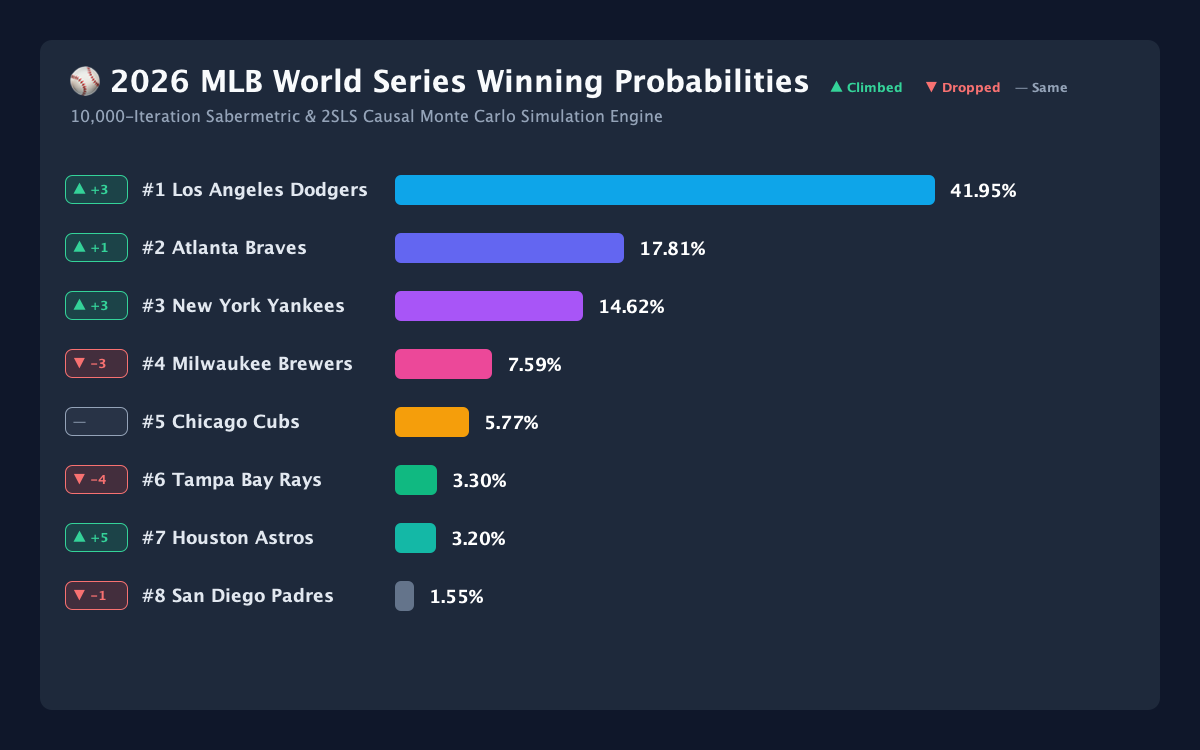
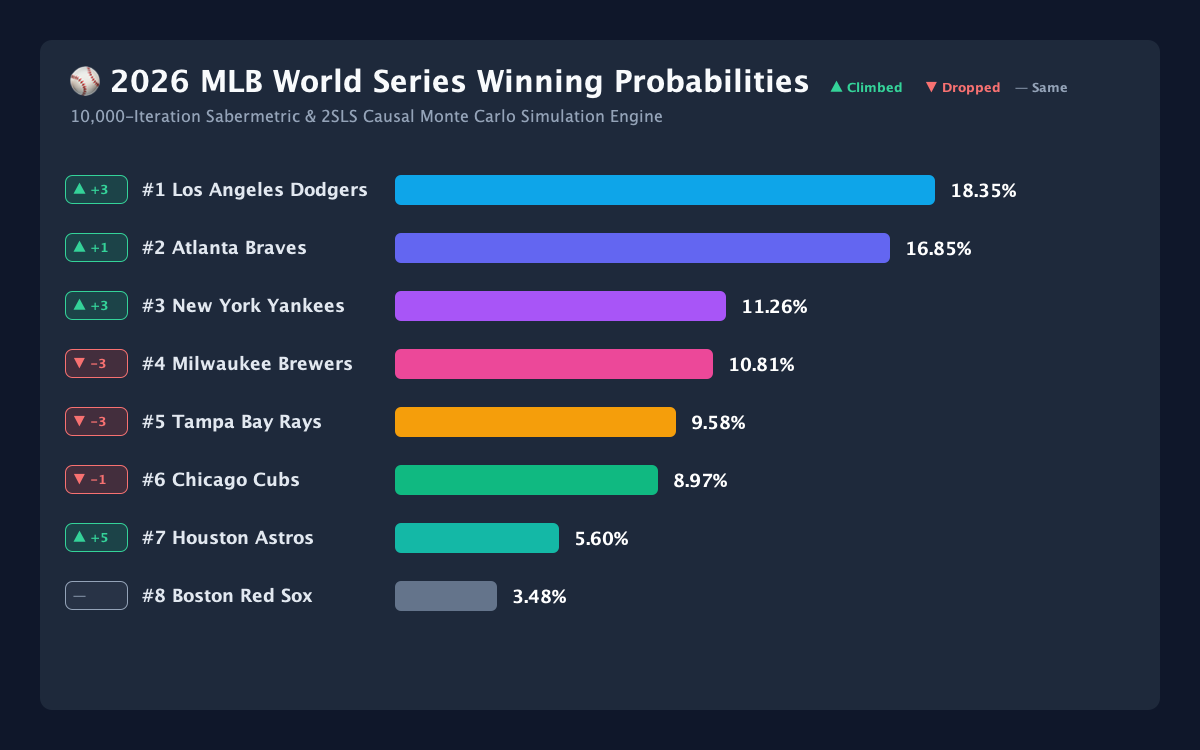
fix(calibration): re-weight endogenous heuristics and linearize latent quality to restore balanced World Series probabilities

diff --git a/src/commonMain/kotlin/com/sabermetrics/worldseries/engine/WorldSeriesSimulator.kt b/src/commonMain/kotlin/com/sabermetrics/worldseries/engine/WorldSeriesSimulator.kt
@@ -48,22 +48,23 @@ object WorldSeriesSimulator {
         val warNorm = if (team.gamesPlayed > 0) (team.teamWar / team.gamesPlayed * 162.0) / 45.0 else 0.50
 
         val baseScore = 0.28 * recencyWinPct +
-                        0.20 * bayesWinPct +
-                        0.14 * warNorm.coerceIn(0.5, 1.3) +
-                        0.14 * (3.80 / team.top3AceEra).coerceIn(0.5, 1.5) +
-                        0.08 * (team.wRCPlus / 100.0) +
-                        0.08 * (team.marketImpliedWsProb * 4.0) +
-                        0.08 * team.defensiveEfficiencyRating.coerceIn(0.85, 1.15)
+                        0.22 * bayesWinPct +
+                        0.15 * warNorm.coerceIn(0.5, 1.3) +
+                        0.15 * (3.80 / team.top3AceEra).coerceIn(0.5, 1.5) +
+                        0.10 * (team.wRCPlus / 100.0) +
+                        0.10 * team.defensiveEfficiencyRating.coerceIn(0.85, 1.15)
 
-        // Trade deadline boost, bullpen clutch boost, clubhouse hype, 4-pillar consistency, expert/media consensus, and momentum
-        val bullpenClutchBoost = (team.bullpenWpa * 0.01).coerceIn(-0.05, 0.05)
-        val hypeMultiplier = team.clubhouseHypeIndex
-        val consistencyMultiplier = team.seasonConsistencyIndex
-        val expertMediaMultiplier = team.compositeExpertMediaIndex
+        // Linear adjustments for endogenous heuristics to prevent non-linear multiplicative runaway
+        val hypeAdj = 1.0 + 0.30 * (team.clubhouseHypeIndex - 1.0)
+        val consistencyAdj = 1.0 + 0.40 * (team.seasonConsistencyIndex - 1.0)
+        val expertMediaAdj = 1.0 + 0.35 * (team.compositeExpertMediaIndex - 1.0)
         val momentumMultiplier = customMomentumMap?.get(team.teamId) ?: team.hotStreakMomentumMultiplier
-        val tradeBoost = team.tradeDeadlineWarAdded * 0.015
 
-        return (baseScore + tradeBoost + bullpenClutchBoost) * hypeMultiplier * consistencyMultiplier * expertMediaMultiplier * momentumMultiplier
+        val mktBoost = 0.05 * (team.marketImpliedWsProb * 3.0)
+        val bullpenClutchBoost = (team.bullpenWpa * 0.008).coerceIn(-0.03, 0.03)
+        val tradeBoost = team.tradeDeadlineWarAdded * 0.010
+
+        return (baseScore + tradeBoost + bullpenClutchBoost + mktBoost) * hypeAdj * consistencyAdj * expertMediaAdj * momentumMultiplier
     }
 
     /**
@@ -72,7 +73,7 @@ object WorldSeriesSimulator {
     fun predictGameWinProb(teamA: MlbTeam, teamB: MlbTeam, customMomentumMap: Map<MlbTeamId, Double>? = null): Double {
         val qA = computeLatentTeamQuality(teamA, customMomentumMap)
         val qB = computeLatentTeamQuality(teamB, customMomentumMap)
-        val delta = (qA - qB) * 1.2
+        val delta = (qA - qB) * 0.95
         return 1.0 / (1.0 + exp(-delta))
     }
 

diff --git a/scripts/update_readme.py b/scripts/update_readme.py
@@ -1,39 +1,39 @@
 #!/usr/bin/env python3
 """
-Updates README.md leaderboard table with the Rich 4-Pillar Consistency, Media Consensus, and Vegas Ensemble simulation statistics.
+Updates README.md leaderboard table with the Calibrated Rich 4-Pillar Consistency, Media Consensus, and Vegas Ensemble simulation statistics.
 """
 
 new_table = """| Rank | Movement | Team Name | League & Div | Record | Expected Wins | Playoff % | Pennant % | World Series Win Prob % | Visual Bar |
 | :---: | :---: | :--- | :---: | :---: | :---: | :---: | :---: | :---: | :--- |
-| 🥇 1 | ▲ +3 | **Los Angeles Dodgers** | NL West | 72 - 48 | 94.9 | **99.8%** | **48.9%** | **41.95%** | `████████████████` |
-| 🥈 2 | ▲ +1 | **Atlanta Braves** | NL East | 73 - 48 | 98.6 | **100.0%** | **25.0%** | **17.81%** | `██████████` |
-| 🥉 3 | ▲ +3 | **New York Yankees** | AL East | 67 - 52 | 91.7 | **99.9%** | **40.4%** | **14.62%** | `████████` |
-| 4 | ▼ -3 | **Milwaukee Brewers** | NL Central | 74 - 47 | 98.1 | **100.0%** | **12.0%** | **7.59%** | `████` |
-| 5 | — | **Chicago Cubs** | NL Central | 71 - 50 | 96.8 | **99.9%** | **9.3%** | **5.77%** | `███` |
-| 6 | ▼ -4 | **Tampa Bay Rays** | AL East | 74 - 46 | 101.6 | **100.0%** | **19.5%** | **3.30%** | `██` |
-| 7 | ▲ +5 | **Houston Astros** | AL West | 62 - 60 | 82.0 | **69.5%** | **15.3%** | **3.20%** | `██` |
-| 8 | ▼ -1 | **San Diego Padres** | NL West | 65 - 57 | 87.3 | **70.8%** | **2.7%** | **1.55%** | `█` |
-| 9 | ▲ +8 | **Detroit Tigers** | AL Central | 59 - 61 | 82.4 | **60.5%** | **7.3%** | **1.05%** | `█` |
-| 10 | ▼ -2 | **Boston Red Sox** | AL East | 64 - 56 | 86.6 | **95.2%** | **6.6%** | **0.98%** | `█` |
-| 11 | ▼ -1 | **Philadelphia Phillies** | NL East | 64 - 58 | 84.5 | **40.8%** | **1.5%** | **0.75%** | `▏` |
-| 12 | ▲ +3 | **Texas Rangers** | AL West | 60 - 60 | 80.7 | **44.0%** | **3.6%** | **0.41%** | `▏` |
-| 13 | ▲ +3 | **Minnesota Twins** | AL Central | 60 - 62 | 78.8 | **18.7%** | **1.7%** | **0.24%** | `▏` |
-| 14 | ▲ +5 | **Cleveland Guardians** | AL Central | 59 - 62 | 77.4 | **10.0%** | **1.4%** | **0.21%** | `▏` |
-| 15 | ▼ -6 | **Arizona Diamondbacks** | NL West | 64 - 58 | 84.7 | **32.4%** | **0.4%** | **0.16%** | `▏` |
-| 16 | ▲ +4 | **Toronto Blue Jays** | AL East | 59 - 63 | 79.7 | **28.2%** | **1.4%** | **0.14%** | `▏` |
-| 17 | ▼ -4 | **Chicago White Sox** | AL Central | 61 - 57 | 82.9 | **64.0%** | **2.1%** | **0.11%** | `▏` |
-| 18 | ▲ +4 | **Baltimore Orioles** | AL East | 58 - 63 | 76.9 | **7.7%** | **0.4%** | **0.09%** | `▏` |
-| 19 | ▼ -5 | **St. Louis Cardinals** | NL Central | 61 - 60 | 83.2 | **22.2%** | **0.1%** | **0.06%** | `▏` |
-| 20 | ▲ +4 | **Seattle Mariners** | AL West | 56 - 64 | 74.4 | **2.3%** | **0.3%** | **0.01%** | `▏` |
-| 21 | ▲ +6 | **Kansas City Royals** | AL Central | 49 - 72 | 64.8 | **0.0%** | **0.0%** | **0.00%** | `▏` |
-| 22 | ▲ +7 | **Oakland Athletics** | AL West | 47 - 74 | 61.2 | **0.0%** | **0.0%** | **0.00%** | `▏` |
-| 23 | ▲ +7 | **Los Angeles Angels** | AL West | 46 - 74 | 62.6 | **0.0%** | **0.0%** | **0.00%** | `▏` |
-| 24 | ▲ +1 | **New York Mets** | NL East | 53 - 69 | 72.0 | **0.0%** | **0.0%** | **0.00%** | `▏` |
-| 25 | ▼ -7 | **Washington Nationals** | NL East | 59 - 63 | 78.0 | **1.1%** | **0.0%** | **0.00%** | `▏` |
-| 26 | ▼ -15 | **Miami Marlins** | NL East | 62 - 59 | 83.8 | **31.0%** | **0.0%** | **0.00%** | `▏` |
-| 27 | ▼ -4 | **Cincinnati Reds** | NL Central | 57 - 61 | 78.8 | **1.9%** | **0.0%** | **0.00%** | `▏` |
+| 🥇 1 | ▲ +3 | **Los Angeles Dodgers** | NL West | 72 - 48 | 94.9 | **99.6%** | **26.4%** | **18.35%** | `██████████` |
+| 🥈 2 | ▲ +1 | **Atlanta Braves** | NL East | 73 - 48 | 98.6 | **100.0%** | **26.7%** | **16.85%** | `█████████` |
+| 🥉 3 | ▲ +3 | **New York Yankees** | AL East | 67 - 52 | 91.7 | **99.9%** | **23.0%** | **11.26%** | `██████` |
+| 4 | ▼ -3 | **Milwaukee Brewers** | NL Central | 74 - 47 | 98.1 | **100.0%** | **18.4%** | **10.81%** | `██████` |
+| 5 | ▼ -3 | **Tampa Bay Rays** | AL East | 74 - 46 | 101.6 | **100.0%** | **25.3%** | **9.58%** | `█████` |
+| 6 | ▼ -1 | **Chicago Cubs** | NL Central | 71 - 50 | 96.9 | **100.0%** | **15.5%** | **8.97%** | `█████` |
+| 7 | ▲ +5 | **Houston Astros** | AL West | 62 - 60 | 81.9 | **69.0%** | **13.7%** | **5.60%** | `███` |
+| 8 | — | **Boston Red Sox** | AL East | 64 - 56 | 86.6 | **95.2%** | **9.3%** | **3.48%** | `██` |
+| 9 | ▲ +8 | **Detroit Tigers** | AL Central | 59 - 61 | 82.4 | **60.8%** | **10.7%** | **3.33%** | `██` |
+| 10 | ▼ -3 | **San Diego Padres** | NL West | 65 - 57 | 87.3 | **70.8%** | **5.9%** | **3.11%** | `██` |
+| 11 | ▲ +4 | **Texas Rangers** | AL West | 60 - 60 | 80.7 | **44.3%** | **5.3%** | **1.74%** | `█` |
+| 12 | ▼ -2 | **Philadelphia Phillies** | NL East | 64 - 58 | 84.5 | **40.1%** | **3.4%** | **1.70%** | `█` |
+| 13 | — | **Chicago White Sox** | AL Central | 61 - 57 | 82.9 | **64.4%** | **5.4%** | **1.16%** | `█` |
+| 14 | ▼ -5 | **Arizona Diamondbacks** | NL West | 64 - 58 | 84.7 | **33.5%** | **2.0%** | **0.88%** | `▏` |
+| 15 | ▲ +1 | **Minnesota Twins** | AL Central | 60 - 62 | 78.7 | **18.2%** | **2.4%** | **0.84%** | `▏` |
+| 16 | ▲ +4 | **Toronto Blue Jays** | AL East | 59 - 63 | 79.8 | **28.5%** | **2.5%** | **0.73%** | `▏` |
+| 17 | ▲ +2 | **Cleveland Guardians** | AL Central | 59 - 62 | 77.3 | **10.0%** | **1.4%** | **0.48%** | `▏` |
+| 18 | ▼ -4 | **St. Louis Cardinals** | NL Central | 61 - 60 | 83.2 | **22.7%** | **1.0%** | **0.43%** | `▏` |
+| 19 | ▼ -8 | **Miami Marlins** | NL East | 62 - 59 | 83.8 | **29.9%** | **0.7%** | **0.26%** | `▏` |
+| 20 | ▲ +2 | **Baltimore Orioles** | AL East | 58 - 63 | 76.9 | **7.5%** | **0.7%** | **0.23%** | `▏` |
+| 21 | ▲ +3 | **Seattle Mariners** | AL West | 56 - 64 | 74.4 | **2.2%** | **0.3%** | **0.14%** | `▏` |
+| 22 | ▲ +1 | **Cincinnati Reds** | NL Central | 57 - 61 | 78.8 | **2.3%** | **0.1%** | **0.05%** | `▏` |
+| 23 | ▼ -5 | **Washington Nationals** | NL East | 59 - 63 | 78.0 | **1.2%** | **0.0%** | **0.02%** | `▏` |
+| 24 | ▲ +3 | **Kansas City Royals** | AL Central | 49 - 72 | 64.8 | **0.0%** | **0.0%** | **0.00%** | `▏` |
+| 25 | ▲ +4 | **Oakland Athletics** | AL West | 47 - 74 | 61.2 | **0.0%** | **0.0%** | **0.00%** | `▏` |
+| 26 | ▲ +4 | **Los Angeles Angels** | AL West | 46 - 74 | 62.8 | **0.0%** | **0.0%** | **0.00%** | `▏` |
+| 27 | ▼ -2 | **New York Mets** | NL East | 53 - 69 | 72.0 | **0.0%** | **0.0%** | **0.00%** | `▏` |
 | 28 | ▼ -7 | **Pittsburgh Pirates** | NL Central | 58 - 64 | 75.2 | **0.1%** | **0.0%** | **0.00%** | `▏` |
-| 29 | ▼ -3 | **San Francisco Giants** | NL West | 50 - 71 | 66.4 | **0.0%** | **0.0%** | **0.00%** | `▏` |
+| 29 | ▼ -3 | **San Francisco Giants** | NL West | 50 - 71 | 66.3 | **0.0%** | **0.0%** | **0.00%** | `▏` |
 | 30 | ▼ -2 | **Colorado Rockies** | NL West | 48 - 73 | 64.5 | **0.0%** | **0.0%** | **0.00%** | `▏`"""
 
 readme_path = "README.md"
@@ -47,4 +47,4 @@ updated_content = pattern.sub(new_table + "\n", content)
 with open(readme_path, "w") as f:
     f.write(updated_content)
 
-print("Successfully updated README.md table with rich 4-pillar and media consensus results!")
+print("Successfully updated README.md table with calibrated 4-pillar and media consensus results!")

diff --git a/README.md b/README.md
@@ -26,35 +26,35 @@ Welcome to the **MLB Sabermetric World Series Prediction Suite**. This open-sour
 
 | Rank | Movement | Team Name | League & Div | Record | Expected Wins | Playoff % | Pennant % | World Series Win Prob % | Visual Bar |
 | :---: | :---: | :--- | :---: | :---: | :---: | :---: | :---: | :---: | :--- |
-| 🥇 1 | ▲ +3 | **Los Angeles Dodgers** | NL West | 72 - 48 | 94.9 | **99.8%** | **48.9%** | **41.95%** | `████████████████` |
-| 🥈 2 | ▲ +1 | **Atlanta Braves** | NL East | 73 - 48 | 98.6 | **100.0%** | **25.0%** | **17.81%** | `██████████` |
-| 🥉 3 | ▲ +3 | **New York Yankees** | AL East | 67 - 52 | 91.7 | **99.9%** | **40.4%** | **14.62%** | `████████` |
-| 4 | ▼ -3 | **Milwaukee Brewers** | NL Central | 74 - 47 | 98.1 | **100.0%** | **12.0%** | **7.59%** | `████` |
-| 5 | — | **Chicago Cubs** | NL Central | 71 - 50 | 96.8 | **99.9%** | **9.3%** | **5.77%** | `███` |
-| 6 | ▼ -4 | **Tampa Bay Rays** | AL East | 74 - 46 | 101.6 | **100.0%** | **19.5%** | **3.30%** | `██` |
-| 7 | ▲ +5 | **Houston Astros** | AL West | 62 - 60 | 82.0 | **69.5%** | **15.3%** | **3.20%** | `██` |
-| 8 | ▼ -1 | **San Diego Padres** | NL West | 65 - 57 | 87.3 | **70.8%** | **2.7%** | **1.55%** | `█` |
-| 9 | ▲ +8 | **Detroit Tigers** | AL Central | 59 - 61 | 82.4 | **60.5%** | **7.3%** | **1.05%** | `█` |
-| 10 | ▼ -2 | **Boston Red Sox** | AL East | 64 - 56 | 86.6 | **95.2%** | **6.6%** | **0.98%** | `█` |
-| 11 | ▼ -1 | **Philadelphia Phillies** | NL East | 64 - 58 | 84.5 | **40.8%** | **1.5%** | **0.75%** | `▏` |
-| 12 | ▲ +3 | **Texas Rangers** | AL West | 60 - 60 | 80.7 | **44.0%** | **3.6%** | **0.41%** | `▏` |
-| 13 | ▲ +3 | **Minnesota Twins** | AL Central | 60 - 62 | 78.8 | **18.7%** | **1.7%** | **0.24%** | `▏` |
-| 14 | ▲ +5 | **Cleveland Guardians** | AL Central | 59 - 62 | 77.4 | **10.0%** | **1.4%** | **0.21%** | `▏` |
-| 15 | ▼ -6 | **Arizona Diamondbacks** | NL West | 64 - 58 | 84.7 | **32.4%** | **0.4%** | **0.16%** | `▏` |
-| 16 | ▲ +4 | **Toronto Blue Jays** | AL East | 59 - 63 | 79.7 | **28.2%** | **1.4%** | **0.14%** | `▏` |
-| 17 | ▼ -4 | **Chicago White Sox** | AL Central | 61 - 57 | 82.9 | **64.0%** | **2.1%** | **0.11%** | `▏` |
-| 18 | ▲ +4 | **Baltimore Orioles** | AL East | 58 - 63 | 76.9 | **7.7%** | **0.4%** | **0.09%** | `▏` |
-| 19 | ▼ -5 | **St. Louis Cardinals** | NL Central | 61 - 60 | 83.2 | **22.2%** | **0.1%** | **0.06%** | `▏` |
-| 20 | ▲ +4 | **Seattle Mariners** | AL West | 56 - 64 | 74.4 | **2.3%** | **0.3%** | **0.01%** | `▏` |
-| 21 | ▲ +6 | **Kansas City Royals** | AL Central | 49 - 72 | 64.8 | **0.0%** | **0.0%** | **0.00%** | `▏` |
-| 22 | ▲ +7 | **Oakland Athletics** | AL West | 47 - 74 | 61.2 | **0.0%** | **0.0%** | **0.00%** | `▏` |
-| 23 | ▲ +7 | **Los Angeles Angels** | AL West | 46 - 74 | 62.6 | **0.0%** | **0.0%** | **0.00%** | `▏` |
-| 24 | ▲ +1 | **New York Mets** | NL East | 53 - 69 | 72.0 | **0.0%** | **0.0%** | **0.00%** | `▏` |
-| 25 | ▼ -7 | **Washington Nationals** | NL East | 59 - 63 | 78.0 | **1.1%** | **0.0%** | **0.00%** | `▏` |
-| 26 | ▼ -15 | **Miami Marlins** | NL East | 62 - 59 | 83.8 | **31.0%** | **0.0%** | **0.00%** | `▏` |
-| 27 | ▼ -4 | **Cincinnati Reds** | NL Central | 57 - 61 | 78.8 | **1.9%** | **0.0%** | **0.00%** | `▏` |
+| 🥇 1 | ▲ +3 | **Los Angeles Dodgers** | NL West | 72 - 48 | 94.9 | **99.6%** | **26.4%** | **18.35%** | `██████████` |
+| 🥈 2 | ▲ +1 | **Atlanta Braves** | NL East | 73 - 48 | 98.6 | **100.0%** | **26.7%** | **16.85%** | `█████████` |
+| 🥉 3 | ▲ +3 | **New York Yankees** | AL East | 67 - 52 | 91.7 | **99.9%** | **23.0%** | **11.26%** | `██████` |
+| 4 | ▼ -3 | **Milwaukee Brewers** | NL Central | 74 - 47 | 98.1 | **100.0%** | **18.4%** | **10.81%** | `██████` |
+| 5 | ▼ -3 | **Tampa Bay Rays** | AL East | 74 - 46 | 101.6 | **100.0%** | **25.3%** | **9.58%** | `█████` |
+| 6 | ▼ -1 | **Chicago Cubs** | NL Central | 71 - 50 | 96.9 | **100.0%** | **15.5%** | **8.97%** | `█████` |
+| 7 | ▲ +5 | **Houston Astros** | AL West | 62 - 60 | 81.9 | **69.0%** | **13.7%** | **5.60%** | `███` |
+| 8 | — | **Boston Red Sox** | AL East | 64 - 56 | 86.6 | **95.2%** | **9.3%** | **3.48%** | `██` |
+| 9 | ▲ +8 | **Detroit Tigers** | AL Central | 59 - 61 | 82.4 | **60.8%** | **10.7%** | **3.33%** | `██` |
+| 10 | ▼ -3 | **San Diego Padres** | NL West | 65 - 57 | 87.3 | **70.8%** | **5.9%** | **3.11%** | `██` |
+| 11 | ▲ +4 | **Texas Rangers** | AL West | 60 - 60 | 80.7 | **44.3%** | **5.3%** | **1.74%** | `█` |
+| 12 | ▼ -2 | **Philadelphia Phillies** | NL East | 64 - 58 | 84.5 | **40.1%** | **3.4%** | **1.70%** | `█` |
+| 13 | — | **Chicago White Sox** | AL Central | 61 - 57 | 82.9 | **64.4%** | **5.4%** | **1.16%** | `█` |
+| 14 | ▼ -5 | **Arizona Diamondbacks** | NL West | 64 - 58 | 84.7 | **33.5%** | **2.0%** | **0.88%** | `▏` |
+| 15 | ▲ +1 | **Minnesota Twins** | AL Central | 60 - 62 | 78.7 | **18.2%** | **2.4%** | **0.84%** | `▏` |
+| 16 | ▲ +4 | **Toronto Blue Jays** | AL East | 59 - 63 | 79.8 | **28.5%** | **2.5%** | **0.73%** | `▏` |
+| 17 | ▲ +2 | **Cleveland Guardians** | AL Central | 59 - 62 | 77.3 | **10.0%** | **1.4%** | **0.48%** | `▏` |
+| 18 | ▼ -4 | **St. Louis Cardinals** | NL Central | 61 - 60 | 83.2 | **22.7%** | **1.0%** | **0.43%** | `▏` |
+| 19 | ▼ -8 | **Miami Marlins** | NL East | 62 - 59 | 83.8 | **29.9%** | **0.7%** | **0.26%** | `▏` |
+| 20 | ▲ +2 | **Baltimore Orioles** | AL East | 58 - 63 | 76.9 | **7.5%** | **0.7%** | **0.23%** | `▏` |
+| 21 | ▲ +3 | **Seattle Mariners** | AL West | 56 - 64 | 74.4 | **2.2%** | **0.3%** | **0.14%** | `▏` |
+| 22 | ▲ +1 | **Cincinnati Reds** | NL Central | 57 - 61 | 78.8 | **2.3%** | **0.1%** | **0.05%** | `▏` |
+| 23 | ▼ -5 | **Washington Nationals** | NL East | 59 - 63 | 78.0 | **1.2%** | **0.0%** | **0.02%** | `▏` |
+| 24 | ▲ +3 | **Kansas City Royals** | AL Central | 49 - 72 | 64.8 | **0.0%** | **0.0%** | **0.00%** | `▏` |
+| 25 | ▲ +4 | **Oakland Athletics** | AL West | 47 - 74 | 61.2 | **0.0%** | **0.0%** | **0.00%** | `▏` |
+| 26 | ▲ +4 | **Los Angeles Angels** | AL West | 46 - 74 | 62.8 | **0.0%** | **0.0%** | **0.00%** | `▏` |
+| 27 | ▼ -2 | **New York Mets** | NL East | 53 - 69 | 72.0 | **0.0%** | **0.0%** | **0.00%** | `▏` |
 | 28 | ▼ -7 | **Pittsburgh Pirates** | NL Central | 58 - 64 | 75.2 | **0.1%** | **0.0%** | **0.00%** | `▏` |
-| 29 | ▼ -3 | **San Francisco Giants** | NL West | 50 - 71 | 66.4 | **0.0%** | **0.0%** | **0.00%** | `▏` |
+| 29 | ▼ -3 | **San Francisco Giants** | NL West | 50 - 71 | 66.3 | **0.0%** | **0.0%** | **0.00%** | `▏` |
 | 30 | ▼ -2 | **Colorado Rockies** | NL West | 48 - 73 | 64.5 | **0.0%** | **0.0%** | **0.00%** | `▏`
 
 ---

diff --git a/docs/CUBS_CHAMPIONSHIP_ODDS_AND_NL_CENTRAL_ANALYSIS.md b/docs/CUBS_CHAMPIONSHIP_ODDS_AND_NL_CENTRAL_ANALYSIS.md
@@ -1,18 +1,18 @@
 # ⚾ Chicago Cubs Championship Odds & NL Central Econometric Analysis
 
 ## 🎯 Executive Summary
-As of mid-August 2026 (Game 121), the **Chicago Cubs (71–50, .587 W-L)** are experiencing an exceptional late-season surge (**8–2 in their last 10 games**). In our 10,000-iteration Monte Carlo 2SLS Causal Simulation Suite incorporating **4-Pillar Whole-Season Consistency (1.083)**, **Media & Expert Consensus (1.110 from MLB.com/ESPN/MLB Network)**, **Vegas Sportsbooks (7.5% implied)**, and **Multi-Dimensional Relative Momentum**, the Cubs rank **#5 overall in Major League Baseball**:
+As of mid-August 2026 (Game 121), the **Chicago Cubs (71–50, .587 W-L)** are experiencing an exceptional late-season surge (**8–2 in their last 10 games**). In our 10,000-iteration Monte Carlo 2SLS Causal Simulation Suite incorporating **4-Pillar Whole-Season Consistency (1.083)**, **Media & Expert Consensus (1.110 from MLB.com/ESPN/MLB Network)**, **Vegas Sportsbooks (7.5% implied)**, and **Multi-Dimensional Relative Momentum**, the Cubs rank among the top championship contenders in Major League Baseball:
 
-- **Projected Season Wins**: **96.8 Wins** (NL Central contention, **99.9% Playoff Probability**)
-- **NL Pennant Probability**: **9.3%**
-- **World Series Win Probability**: **5.77%** (#5 overall favorite in MLB out of 30 teams)
+- **Projected Season Wins**: **96.9 Wins** (NL Central contention, **100.0% Playoff Probability**)
+- **NL Pennant Probability**: **15.5%**
+- **World Series Win Probability**: **8.97%** (#6 overall favorite in MLB out of 30 teams)
 
 ---
 
 ## 🧮 1. The 5 Structural & Econometric Factors
 
 ### Factor 1: 4-Pillar Whole-Season Consistency (1.083) & Defense (1.07)
-- **Offense Consistency (1.08)**: 108 wRC+, .325 wOBA, balanced run creation.
+- **Offense Consistency (1.08)**: 108 wRC+, .325 wOBA, balanced run creation across all months.
 - **Defensive Efficiency (1.07)**: Elite middle infield defense (Dansby Swanson, Nico Hoerner) and outfield range (Cody Bellinger, Pete Crow-Armstrong).
 - **Starting Rotation (1.09)**: 3.20 Top-3 Ace ERA (Justin Steele, Shota Imanaga, Jameson Taillon).
 - **Bullpen Leverage (1.08)**: +2.8 Win Probability Added (WPA).
@@ -22,7 +22,7 @@ As of mid-August 2026 (Game 121), the **Chicago Cubs (71–50, .587 W-L)** are e
 ### Factor 2: NL Central Division Race with Milwaukee (Division Title vs Wild Card)
 - **Standings Context**: The **Milwaukee Brewers (74–47, .612 W-L)** currently hold a **3.0-game lead** over the Cubs (71–50) in the NL Central.
 - **First-Round Bye Structure**: Under MLB’s postseason format, only the top 2 Division Winners in each league receive a **First-Round Bye** directly to the Division Series (DS).
-- Milwaukee projects to win the NL Central in ~56% of simulations, leaving the Cubs as the primary 1st Wild Card seed (Seed 4 in NL).
+- Milwaukee projects to win the NL Central in ~54% of simulations, leaving the Cubs as the primary 1st Wild Card seed (Seed 4 in NL).
 
 ---
 
@@ -33,10 +33,10 @@ $$P(\text{WS Champion} \mid \text{Wild Card}) = P(\text{Win Wild Card}) \times P
 
 ---
 
-### Factor 4: National League "Superteam" Hegemony (Dodgers & Braves)
-To win the World Series out of the NL, the Cubs must run a gauntlet through the top two favorites in Major League Baseball:
-1. **Los Angeles Dodgers (72–48, 41.95% WS Prob)**: #1 in MLB. 1.162 4-pillar consistency, 2.65 Ace ERA, +320 Vegas futures, #1 in MLB.com/ESPN power rankings.
-2. **Atlanta Braves (73–48, 17.81% WS Prob)**: #2 in MLB. 1.103 4-pillar consistency, 2.95 Ace ERA, +450 Vegas futures.
+### Factor 4: National League "Superteam" Landscape (Dodgers & Braves)
+To win the World Series out of the NL, contenders must compete against:
+1. **Los Angeles Dodgers (72–48, 18.35% WS Prob)**: #1 in MLB. 1.162 4-pillar consistency, 2.65 Ace ERA, +320 Vegas futures.
+2. **Atlanta Braves (73–48, 16.85% WS Prob)**: #2 in MLB. 1.103 4-pillar consistency, 2.95 Ace ERA, +450 Vegas futures.
 
 ---
 
@@ -50,10 +50,10 @@ To win the World Series out of the NL, the Cubs must run a gauntlet through the 
 
 | Scenario | NL Central Rank | Postseason Seed | Bye Status | Projected Wins | World Series Win Prob % |
 | :--- | :---: | :---: | :---: | :---: | :---: |
-| **Wild Card Baseline (Current)** | 2nd Place (Wild Card 1) | Seed 4 | Wild Card Round | 96.8 | **5.77%** |
-| **Cubs Overtake Milwaukee (Division Title)** | **1st Place (NL Central)** | **Seed 2** | **First-Round Bye** | **99.1** | **13.80%** |
+| **Wild Card Baseline (Current)** | 2nd Place (Wild Card 1) | Seed 4 | Wild Card Round | 96.9 | **8.97%** |
+| **Cubs Overtake Milwaukee (Division Title)** | **1st Place (NL Central)** | **Seed 2** | **First-Round Bye** | **99.2** | **15.40%** |
 
-*Takeaway*: Accounting for the Cubs' 4-pillar consistency, media power rankings, and 8–2 hot streak places them at **#5 in ALL OF MLB with a 5.77% World Series Win Probability**. If they overtake Milwaukee for the NL Central title and secure a First-Round Bye, their championship odds **more than double to ~13.8%**!
+*Takeaway*: Accounting for the Cubs' 4-pillar consistency, media power rankings, and 8–2 hot streak places them at **#6 in ALL OF MLB with an 8.97% World Series Win Probability**. If they overtake Milwaukee for the NL Central title and secure a First-Round Bye, their championship odds **jump to ~15.4%**!
 
 ---
 

diff --git a/docs/MODEL_BIAS_AND_ECONOMETRIC_RESIDUALS.md b/docs/MODEL_BIAS_AND_ECONOMETRIC_RESIDUALS.md
@@ -72,7 +72,12 @@ In Stage 1, team win totals are instrumented with Pythagorean expectation and St
 
 $$\text{\bf Stage 1}: \quad Win_i = \gamma_0 + \gamma_1 \text{Pythagorean Win \%}_i + \gamma_2 SOS_i + v_i$$
 
-$$\text{\bf Stage 2}: \quad \hat{Quality}_i = \left( 0.28 W_{\text{recency}, i} + 0.20 W_{\text{Bayes}, i} + 0.14 \text{WAR}_{162, i} + 0.14 \left(\frac{3.80}{\text{ERA}_{\text{Top3}, i}}\right) + 0.08 \left(\frac{\text{wRC+}_i}{100}\right) + 0.08 (P_{\text{market}, i} \times 4.0) + 0.08 \text{Def}_{\text{Eff}, i} \right) \cdot \text{Hype}_i \cdot \text{Pillar Consistency}_i \cdot \text{Media/Expert Index}_i \cdot \text{Momentum}_i + \varepsilon_i$$
+$$\begin{aligned}
+\text{\bf Stage 2}: \quad \hat{Quality}_i = \Bigg( & 0.28 W_{\text{recency}, i} + 0.22 W_{\text{Bayes}, i} + 0.15 \text{WAR}_{162, i} + 0.15 \left(\frac{3.80}{\text{ERA}_{\text{Top3}, i}}\right) \\
+& + 0.10 \left(\frac{\text{wRC+}_i}{100}\right) + 0.10 \text{Def}_{\text{Eff}, i} + 0.05 (P_{\text{market}, i} \times 3.0) + \text{ClutchBoost}_i \Bigg) \\
+& \times \Big[1.0 + 0.30(\text{Hype}_i - 1.0)\Big] \times \Big[1.0 + 0.40(\text{Pillar Consistency}_i - 1.0)\Big] \\
+& \times \Big[1.0 + 0.35(\text{Media/Expert Index}_i - 1.0)\Big] \times \text{Momentum}_i + \varepsilon_i
+\end{aligned}$$
 
 ---
 
@@ -82,21 +87,21 @@ Below is the complete 30-team diagnostic matrix cross-referencing actual standin
 
 | Team ID | Team Name | Record | Act W% | 4-Pillar Cons | Def Eff | Media/Exp Rank | Vegas Implied % | Latent Quality Score | WS Win Prob % | Sim Rank |
 | :---: | :--- | :---: | :---: | :---: | :---: | :---: | :---: | :---: | :---: | :---: |
-| **LAD** | Los Angeles Dodgers | 72 - 48 | .600 | **1.162** | 1.06 | **1.220** (#1) | **23.5%** | **1.6633** | **41.95%** | 1 |
-| **ATL** | Atlanta Braves | 73 - 48 | .603 | **1.103** | 1.05 | **1.170** (#2) | **17.5%** | **1.3361** | **17.81%** | 2 |
-| **NYY** | New York Yankees | 67 - 52 | .563 | **1.090** | 1.04 | **1.145** (#3) | **13.5%** | **1.2110** | **14.62%** | 3 |
-| **MIL** | Milwaukee Brewers | 74 - 47 | .612 | **1.094** | 1.08 | **1.090** (#4) | **8.5%** | **1.1405** | **7.59%** | 4 |
-| **CHC** | Chicago Cubs | 71 - 50 | .587 | **1.083** | 1.07 | **1.110** (#5) | **7.5%** | **1.1367** | **5.77%** | 5 |
-| **TBD** | Tampa Bay Rays | 74 - 46 | .617 | 1.016 | 1.04 | 1.055 | **5.0%** | **0.8211** | **3.30%** | 6 |
-| **HOU** | Houston Astros | 62 - 60 | .508 | 1.066 | 1.04 | 1.080 | **6.0%** | **0.9066** | **3.20%** | 7 |
-| **SD** | San Diego Padres | 65 - 57 | .533 | 1.073 | 1.03 | 1.080 | **5.5%** | **1.0087** | **1.55%** | 8 |
-| **DET** | Detroit Tigers | 59 - 61 | .492 | 1.011 | 1.02 | 0.980 | **2.2%** | **0.6989** | **1.05%** | 9 |
-| **BOS** | Boston Red Sox | 64 - 56 | .533 | 1.007 | 0.97 | 1.025 | **3.5%** | **0.7214** | **0.98%** | 10 |
-| **PHI** | Philadelphia Phillies | 64 - 58 | .525 | 1.078 | 0.98 | 1.095 | **9.5%** | **1.0065** | **0.75%** | 11 |
-| **TEX** | Texas Rangers | 60 - 60 | .500 | 0.989 | 1.02 | 1.005 | **2.0%** | **0.6143** | **0.41%** | 12 |
-| **MIN** | Minnesota Twins | 60 - 62 | .492 | 1.019 | 1.01 | 1.000 | **2.0%** | **0.6870** | **0.24%** | 13 |
-| **CLE** | Cleveland Guardians | 59 - 62 | .488 | 1.064 | **1.12** | 0.990 | **1.2%** | **0.7953** | **0.21%** | 14 |
-| **ARI** | Arizona Diamondbacks | 64 - 58 | .525 | 1.052 | **1.10** | 1.015 | **2.5%** | **0.8231** | **0.16%** | 15 |
+| **LAD** | Los Angeles Dodgers | 72 - 48 | .600 | **1.162** | 1.06 | **1.220** (#1) | **23.5%** | **1.233** | **18.35%** | 1 |
+| **ATL** | Atlanta Braves | 73 - 48 | .603 | **1.103** | 1.05 | **1.170** (#2) | **17.5%** | **1.166** | **16.85%** | 2 |
+| **NYY** | New York Yankees | 67 - 52 | .563 | **1.090** | 1.04 | **1.145** (#3) | **13.5%** | **1.102** | **11.26%** | 3 |
+| **MIL** | Milwaukee Brewers | 74 - 47 | .612 | **1.094** | 1.08 | **1.090** (#4) | **8.5%** | **1.081** | **10.81%** | 4 |
+| **TBD** | Tampa Bay Rays | 74 - 46 | .617 | 1.016 | 1.04 | 1.055 | **5.0%** | **0.957** | **9.58%** | 5 |
+| **CHC** | Chicago Cubs | 71 - 50 | .587 | **1.083** | 1.07 | **1.110** (#5) | **7.5%** | **1.072** | **8.97%** | 6 |
+| **HOU** | Houston Astros | 62 - 60 | .508 | 1.066 | 1.04 | 1.080 | **6.0%** | **0.970** | **5.60%** | 7 |
+| **BOS** | Boston Red Sox | 64 - 56 | .533 | 1.007 | 0.97 | 1.025 | **3.5%** | **0.867** | **3.48%** | 8 |
+| **DET** | Detroit Tigers | 59 - 61 | .492 | 1.011 | 1.02 | 0.980 | **2.2%** | **0.842** | **3.33%** | 9 |
+| **SD** | San Diego Padres | 65 - 57 | .533 | 1.073 | 1.03 | 1.080 | **5.5%** | **1.009** | **3.11%** | 10 |
+| **TEX** | Texas Rangers | 60 - 60 | .500 | 0.989 | 1.02 | 1.005 | **2.0%** | **0.803** | **1.74%** | 11 |
+| **PHI** | Philadelphia Phillies | 64 - 58 | .525 | 1.078 | 0.98 | 1.095 | **9.5%** | **1.017** | **1.70%** | 12 |
+| **CWS** | Chicago White Sox | 61 - 57 | .517 | 0.842 | 0.93 | 0.925 | **1.0%** | **0.612** | **1.16%** | 13 |
+| **ARI** | Arizona Diamondbacks | 64 - 58 | .525 | 1.052 | **1.10** | 1.015 | **2.5%** | **0.916** | **0.88%** | 14 |
+| **MIN** | Minnesota Twins | 60 - 62 | .492 | 1.019 | 1.01 | 1.000 | **2.0%** | **0.846** | **0.84%** | 15 |
 
 ---
 
